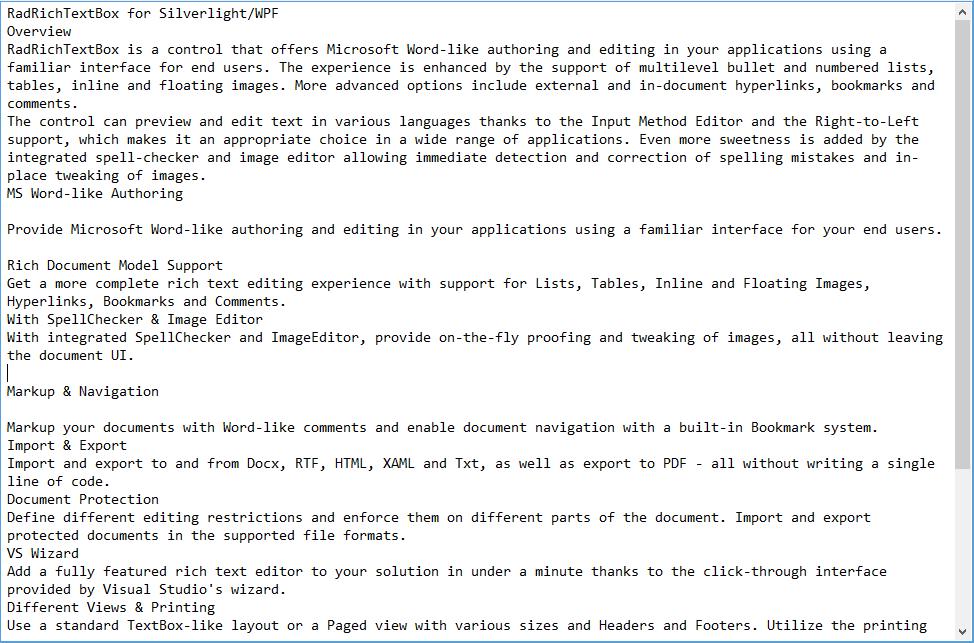
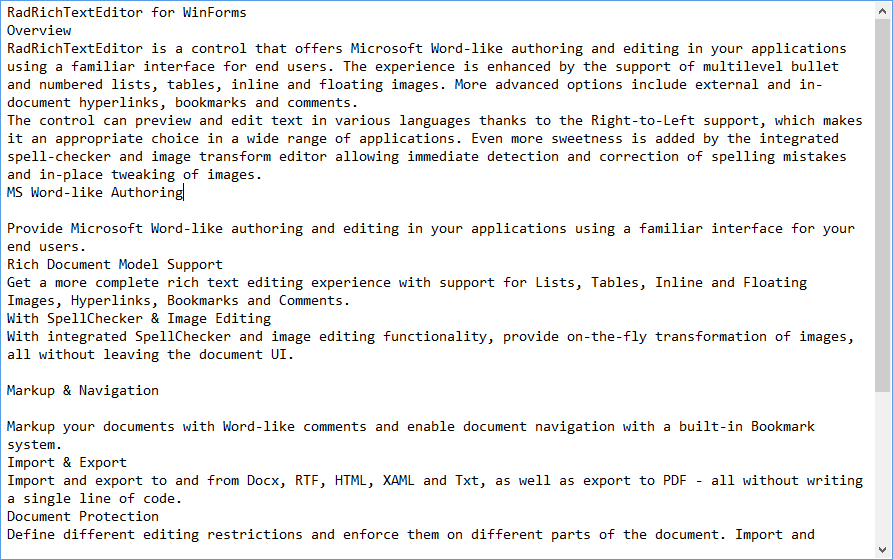
RadRichTextEditor Import/Export updates

Changed region(s): [[0.0, 0.0, 1.0, 1.0]]

diff --git a/richtexteditor/import-export/html/settings.md b/richtexteditor/import-export/html/settings.md
@@ -10,11 +10,11 @@ position: 1
 
 # Settings
 
-__HtmlFormatProvider__ allows for import of HTML documents and respectively export of RadRichTextBox to HTML. Additionally, the import/export settings provide modification options. The current article outlines the available settings.
+__HtmlFormatProvider__ allows for import of HTML documents and respectively export of RadRichTextEditor to HTML. Additionally, the import/export settings provide modification options. The current article outlines the available settings.
 
 ## Export Settings
 
-__HtmlFormatProvider__ exposes __ExportSettings__, which allow you to control the export of the RadRichTextBox document.
+__HtmlFormatProvider__ exposes __ExportSettings__, which allow you to control the export of the RadRichTextEditor document.
 
 ### ExportSettings Properties
 
@@ -158,7 +158,7 @@ htmlFormatProvider.ExportSettings = htmlExportSettings
 __HtmlFormatProvider__ exposes __ImportSettings__, which allow you to control the import of the HTML file.
 
 ### ImportSettings Properties
-* __UseDefaultStylesheetForFontProperties__: A property of type __bool__ that indicates whether the default font properties of RadRichTextBox or the defaults in the HTML specification should be used for the elements that do not set their FontSize, FontFamily, FontWeight and FontStyle explicitly.
+* __UseDefaultStylesheetForFontProperties__: A property of type __bool__ that indicates whether the default font properties of RadRichTextEditor or the defaults in the HTML specification should be used for the elements that do not set their FontSize, FontFamily, FontWeight and FontStyle explicitly.
 * __UseHtmlHeadingStyles__: A property of type __bool__ that indicates whether the heading style of the imported HTML should be imported or not.
 
 ### ImportSettings Events

diff --git a/richtexteditor/import-export/rtf/rtfformatprovider.md b/richtexteditor/import-export/rtf/rtfformatprovider.md
@@ -12,13 +12,13 @@ position: 2
 
 __RtfFormatProvider__ makes it easy to import and export __RadDocument__ to/from RTF format, preserving the entire document structure and formatting.
 
-All you have to do in order to use __RtfFormatProvider__ is to add references to:
+To use __RtfFormatProvider__, you should reference the **Telerik.WinControls.RichTextEditor.dll** assembly and add the following namespace: 
       
-* __Telerik.Windows.Documents.FormatProviders.Rtf.dll__
+* __Telerik.WinForms.Documents.FormatProviders.Rtf__
   
 ## Import
 
-In order to import an RTF document, you need to use the __Import()__ method of __RtfFormatProvider__.
+In order to import an RTF document, you need to use the __Import__ method of __RtfFormatProvider__.
     
 The code from __Example 1__ shows how to use __RtfFormatProvider__ to import an RTF document from a file.
      
@@ -70,7 +70,7 @@ The resulting __RadDocument__ can be used like any code-generated document.
  
 ## Export
 
-In order to export a document to RTF, you need to use the __Export()__ method of __RtfFormatProvider__.
+In order to export a document to RTF, you need to use the __Export__ method of __RtfFormatProvider__.
         
 The example below shows how to use __RtfFormatProvider__ to export __RadDocument__ to a file.
 

diff --git a/richtexteditor/import-export/pdf/pdfformatprovider.md b/richtexteditor/import-export/pdf/pdfformatprovider.md
@@ -12,18 +12,15 @@ position: 2
 
 __PdfFormatProvider__ makes it easy to export __RadDocument__ to PDF format, preserving the entire document structure and formatting.
   
-All you have to do in order to use __PdfFormatProvider__ is add references to the assemblies listed below:
+All you have to do in order to use __PdfFormatProvider__ is reference the **Telerik.WinControls.RichTextEditor.dll** assembly and add the following namespace:
  
-* __Telerik.Windows.Documents.FormatProviders.Pdf.dll__
-* __Telerik.Windows.Zip.dll__
+* __Telerik.WinForms.Documents.FormatProviders.Pdf__
 
 ## Export
 
 In order to export a document to PDF you need to use the __Export()__ method of __PdfFormatProvider__.
 
 The code snippet in __Example 1__ shows how to create a __PdfFormatProvider__ instance and use it to export the document to PDF.
-        
->note The PdfFormatProvider class of RadRichTextBox is located in the **Telerik.Windows.Documents.FormatProviders.Pdf namespace**.
 
 #### Export to Pdf File
 {{source=..\SamplesCS\RichTextEditor\ImportExport\PdfFormatProviderForm.cs region=SetupPdfExportSettings}} 

diff --git a/richtexteditor/import-export/pdf/settings.md b/richtexteditor/import-export/pdf/settings.md
@@ -1,7 +1,7 @@
 ---
 title: Settings
 page_title: Settings | RadRichTextEditor
-description: PdfFormatProvider allows for export of PDF documents and respectively export of RadRichTextBox to Pdf. The export settings provide modification options
+description: PdfFormatProvider allows for export of PDF documents and respectively export of RadRichTextEditor to Pdf. The export settings provide modification options
 slug: winforms/richtexteditor/import-export/pdf/settings
 tags: import/export
 published: True
@@ -10,7 +10,7 @@ position: 1
 
 # Settings
 
-__PdfFormatProvider__ allows for export of PDF documents and respectively export of RadRichTextBox to Pdf. Additionally, the export settings provide modification options. The current article outlines the available settings.
+__PdfFormatProvider__ allows for export of PDF documents and respectively export of RadRichTextEditor to Pdf. Additionally, the export settings provide modification options. The current article outlines the available settings.
 
 ## Export Settings
 

diff --git a/richtexteditor/import-export/plain-text/txtformatprovider.md b/richtexteditor/import-export/plain-text/txtformatprovider.md
@@ -12,12 +12,10 @@ position: 1
 
 __TxtFormatProvider__ makes it easy to import and export __RadDocument__ to/from plain text format, preserving the document structure. 
 
-To use __TxtFormatProvider__, you should add references to: 
+To use __TxtFormatProvider__, you should reference the **Telerik.WinControls.RichTextEditor.dll** and add the following namespace: 
 	
-* __Telerik.Windows.Documents.dll__
+* __Telerik.WinForms.Documents.FormatProviders.Txt__
         
->note The TxtFormatProvider of RadRichTextEditor resides in the **Telerik.Windows.Documents.FormatProviders.Txt** namespace, so you will need to add a *using* statement for it.	
-	
 ## Import
 
 In order to import a plain text document, you need to use the __Import()__ method of __TxtFormatProvider__. The first example shows how to use __TxtFormatProvider__ to import a document from a file.

diff --git a/richtexteditor/import-export/docx/docxformatprovider.md b/richtexteditor/import-export/docx/docxformatprovider.md
@@ -12,10 +12,9 @@ position: 2
 
 __DocxFormatProvider__ makes it easy to import and export **RadRichTextEditor** to/from DOCX format, preserving the entire document structure and formatting.
 
-All you have to do in order to use DocxFormatProvider is to add references to the assemblies listed below:
+All you have to do in order to use DocxFormatProvider is to reference the **Telerik.WinControls.RichTextEditor.dll** assembly and add the following namespace:
 
-* __Telerik.Windows.Documents.FormatProviders.OpenXml.dll__
-* __Telerik.Windows.Zip.dll__
+* __Telerik.Windows.Documents.FormatProviders.OpenXml__
 
 ## Import
 In order to import a __.docx__ file, you need to use the Import() method of DocxFormatProvider. The code example shows how to use __DocxFormatProvider__ to import a Docx document from a file.

diff --git a/richtexteditor/import-export/xaml/xamlformatprovider.md b/richtexteditor/import-export/xaml/xamlformatprovider.md
@@ -12,9 +12,9 @@ position: 2
 
 __XamlFormatProvider__ makes it easy to import and export RadDocument to/from XAML format, preserving as much as possible of the document structure and formatting. 
 
-To use __XamlFormatProvider__, you should add a reference to:
-
-* __Telerik.Windows.Documents.FormatProviders.Xaml.dll__
+To use __XamlFormatProvider__, you should reference the **Telerik.WinControls.RichTextEditor.dll** and add the following namespace: 
+	
+* __Telerik.WinForms.Documents.FormatProviders.Xaml__
 
 ## Import Settings
 In order to import a XAML document you can use the overloads of the __Import()__ method.

diff --git a/richtexteditor/import-export/html/htmlformatprovider.md b/richtexteditor/import-export/html/htmlformatprovider.md
@@ -12,9 +12,9 @@ position: 2
 
 __HtmlFormatProvider__ makes it easy to import and export __RadDocument__ to/from HTML format, preserving as much as possible of the document structure and formatting.
 
-To use __HtmlFormatProvider__, you should add a reference to:
-
-* __Telerik.Windows.Documents.FormatProviders.Html.dll__
+To use __HtmlFormatProvider__, you should reference the **Telerik.WinControls.RichTextEditor.dll** assembly and add the following namespace: 
+      
+* __Telerik.WinForms.Documents.FormatProviders.Html__
 
 ## Import
 
